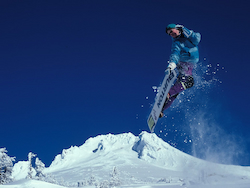
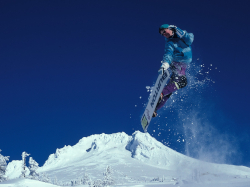
pic 250px

diff --git a/index.htm b/index.htm
@@ -69,7 +69,7 @@
             <img class="bild" src="bilder/rum/rum2/bed-1839184_4_3_small.jpg" alt="Dubbelrum">
             <img class="bild" src="bilder/rum/rum3/pexels-burst-545012_4_3_small.jpg" alt="Familjerum">
             <img class="bild" src="bilder/index/pexels-eberhard-grossgasteiger-1004665(2).jpg" alt="Fjällvy">
-            <img class="bild" src="bilder/index/pexels-pixabay-209817 (1).jpg" alt="En person som åker snowboard">
+            <img class="bild" src="bilder/index/pexels-pixabay-209817_250px.jpg" alt="En person som åker snowboard">
             <img class="bild" src="bilder/index/pexels-visit-almaty-848595.jpg" alt="En person som åker skidor">
         </div>
         <button id="topBtn">Tillbaka till toppen</button>
